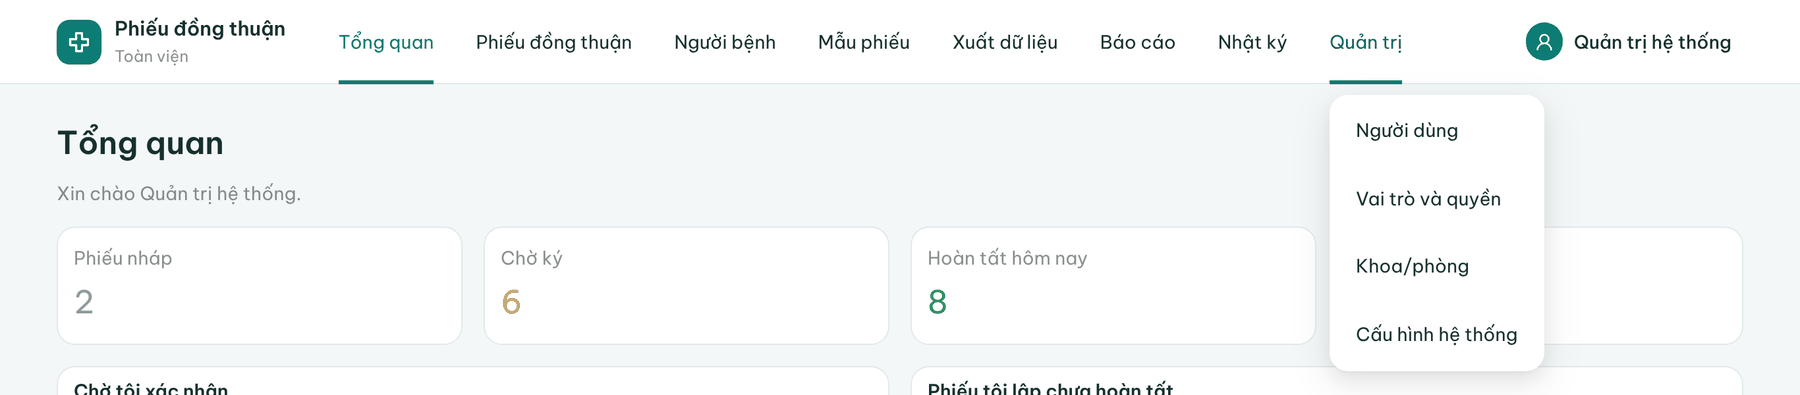
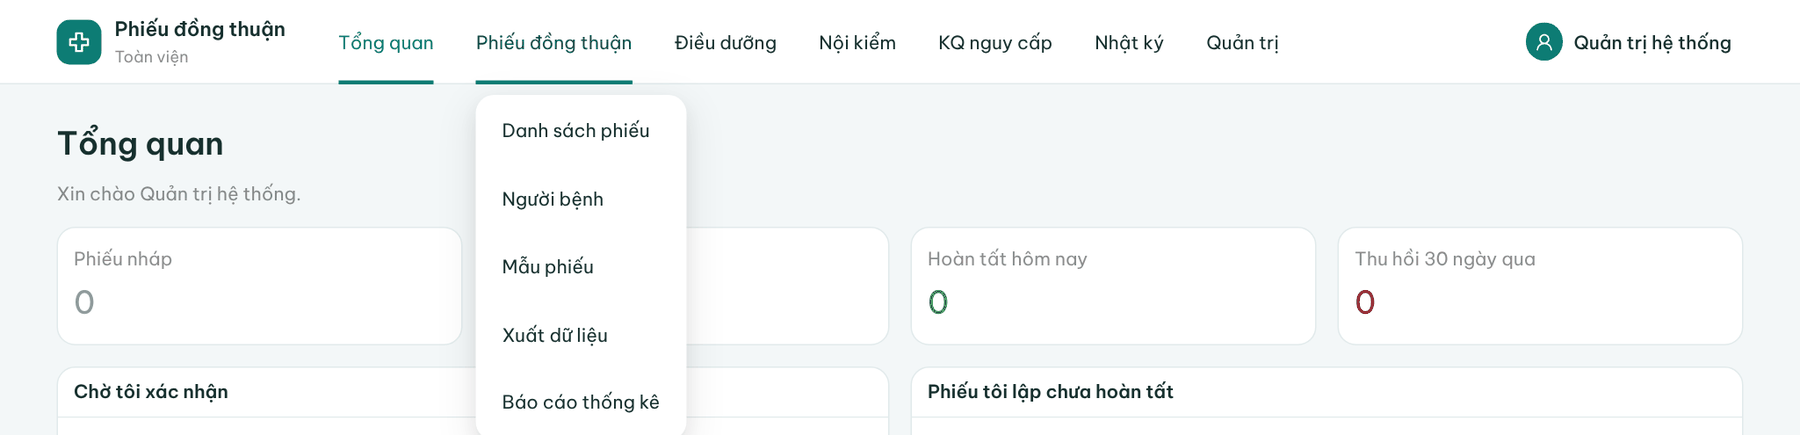
Tài liệu menu Phiếu đồng thuận (quyết định 62), cách mở màn hình theo dõi KQNC
- Hướng dẫn sử dụng: mục 1.3 mô tả menu mới, bảng mục menu theo vai trò, các bước
  "Phiếu đồng thuận → …"; chụp lại ảnh menu ngang, menu điện thoại, menu Điều dưỡng
  (máy thử, dữ liệu giả lập). Mục 12.7: hai cách mở màn hình theo dõi tại khoa.
- Triển khai 5.15: chỉ đổi giao diện, không migration, không cấu hình.
- Kế hoạch: quyết định 62 và giả định.

Claude-Session: https://claude.ai/code/session_01HqEeJxKsVGMM8DuiZkvcED

diff --git a/docs/KE_HOACH_TRIEN_KHAI.md b/docs/KE_HOACH_TRIEN_KHAI.md
@@ -651,6 +651,7 @@ Toàn bộ dữ liệu test được sinh giả lập (tên, số CCCD ngẫu nh
 | 59 | Dashboard giám sát nội kiểm đường huyết (27/11/2026) | Bệnh viện yêu cầu **"bổ sung dashboard quản lý giám sát nội kiểm"** và chọn cả bốn đề xuất. Menu **Nội kiểm → Dashboard**, mỗi lần xem một **tháng** (mặc định tháng này, xem được 24 tháng gần đây). **Người xem:** Khoa HSH (`qc.review`) thấy mọi khoa; khoa (`qc.record`) thấy khoa của mình; quyền mới **`qc.monitor`** *Xem dashboard nội kiểm đường huyết mọi khoa (chỉ xem)* để quản trị gán cho lãnh đạo, Phòng Điều dưỡng, QLCL. Quyền này không cho ghi, xem xét hay mở sổ, và chỉ Quản trị hệ thống tự có; CSDL đang chạy gán tay cho vai trò cần xem. **Tỷ lệ thực hiện tính trên mọi ngày trong tháng** như sổ giấy (kể cả thứ bảy, chủ nhật): mỗi máy mỗi ngày một lần; ngày đã qua không có kết quả là chưa thực hiện. **Nội dung:** tám ô chỉ số (tỷ lệ thực hiện, ngày chưa ghi, ghi muộn, không đạt kèm chạy lại đạt và vẫn không đạt, không đạt chưa chạy lại cần nhắc, chờ Khoa HSH xem xét, sổ đã xác nhận kèm số sổ chờ xác nhận, bị trả lại, đang ghi, máy chưa mở sổ, số máy); khung **Cần xử lý** tính đến hôm nay (lô đang dùng đã hết hạn hoặc còn ≤ 30 ngày kèm khoa đang dùng; chưa đủ hai mức dung dịch chứng hoặc hết que thử còn hạn; máy chưa mở sổ tháng này; sổ của 5 tháng trước chưa xác nhận); hai biểu đồ **6 tháng** (tỷ lệ thực hiện, tỷ lệ không đạt, mỗi biểu đồ một trục, có bảng số); bảng **theo khoa**, mở ra từng máy (ngày chưa ghi, lần không đạt gần nhất kèm nguyên nhân, trạng thái sổ, **Xem sổ** khi người xem mở được sổ). API `GET /api/v1/qc/dashboard?month=`. Chỉ đọc, không có migration. Ô chỉ số và thẻ biểu đồ dùng chung với Dashboard điều dưỡng. **Giả định:** hôm nay chỉ tính khi khoa đã ghi kết quả (khoa còn chạy trong ngày); máy khai báo giữa tháng tính từ ngày khai báo (ghi bù trước đó thì từ kết quả đầu tiên); phần mềm không lưu ngày ngưng hay chuyển máy, nên sổ của khoa cũ tính đến kết quả cuối, khoa nhận máy tính từ ngày sau đó; máy đang dùng chưa mở sổ tính mọi ngày là chưa ghi; ghi muộn theo nhãn **Ghi muộn** của sổ; không đạt tính ở lần chạy đầu; cảnh báo lô ai cũng thấy (lô dùng chung) nhưng chỉ ghi khoa đang dùng trong phạm vi người xem |
 | 60 | Kết quả nguy cấp (27/11/2026) | Bệnh viện gửi quy trình thông báo kết quả nguy cấp, sổ ST01 (khoa cận lâm sàng), ST02 (khoa điều trị), sổ thông báo qua điện thoại của Khoa Vi sinh và đề cương sáng kiến; yêu cầu **thêm tính năng quản lý kết quả nguy cấp**. Bệnh viện chọn (theo đề xuất): **vẫn gọi điện, phần mềm thay sổ** (khoa cận lâm sàng gọi điện như quy trình rồi ghi một lần; sổ ST01/sổ Vi sinh của khoa báo và sổ ST02 của khoa nhận cùng lấy từ hồ sơ, in PDF A4 ngang đúng cột sổ giấy); **bác sĩ tự xác nhận** (bác sĩ ghi hướng xử trí ban đầu bằng tài khoản của mình, thay chữ ký cột 9 sổ ST02; người nghe máy bấm **Đã nhận cuộc gọi** bằng tài khoản của mình); **danh mục do QLCL quản lý, khoa tự xác định** (phần mềm hiện khoảng nguy cấp theo danh mục, không tự đánh giá giá trị); **sổ PDF theo 3 mẫu, cảnh báo tại khoa điều trị, dashboard cho QLCL, hủy hồ sơ báo nhầm**. Bệnh viện yêu cầu thêm: **thời gian cảnh báo và các thông số tương tự là tham số cấu hình** để điều chỉnh khi vận hành (QLCL sửa ở *Danh mục và cấu hình*: hai thời hạn 10/10 phút, ngưỡng ghi bù 30 phút, báo sắp quá hạn 3 phút, chu kỳ cập nhật 15 giây, chuông và nhắc lại 60 giây, chớp tắt và nhịp 1200 ms (≥ 1000 ms, tắt khi máy đặt giảm chuyển động), giữ hồ sơ hoàn tất 24 giờ, tên đầy đủ trên màn hình theo dõi, bắt buộc địa chỉ, 4 mục tiêu dashboard, 3 mã số sổ; mỗi lần lưu ghi nhật ký giá trị cũ và mới; hồ sơ giữ thời hạn lúc ghi); **màn hình chạy realtime ở khoa điều trị** (trang `/man-hinh-kqnc` cho TV, tài khoản vai trò **Màn hình theo dõi KQNC** chỉ xem, tên viết tắt, tự cập nhật, báo mất kết nối); **cảnh báo bằng âm thanh và tín hiệu chớp tắt** (dải đỏ chớp tắt trên mọi trang của khoa nhận và trên màn hình theo dõi, chuông khi có hồ sơ mới và nhắc lại đến khi khoa xác nhận, tắt tiếng được trên từng máy). Luồng: chờ gọi báo → chờ khoa xác nhận → chờ bác sĩ xử trí → hoàn tất; khoa nhận trả lại được (không phải khoa tôi) để khoa báo báo lại đúng khoa; người nhận phải đọc lại chính xác mới lưu được lần báo (số lần đọc sai vẫn lưu); sổ Vi sinh bắt buộc SID và nhắc lại 2 lần; hủy hồ sơ báo nhầm bắt buộc lý do và (khi đã báo) xác nhận đã gọi khoa nhận, hồ sơ không bị xóa (sổ gạch ngang, dashboard đếm riêng). Đồng hồ đếm ngược theo giờ máy chủ. Quyền mới `critical.record`, `critical.receive`, `critical.treat`, `critical.display`, `critical.monitor`, `critical.manage`; vai trò mới **Khoa cận lâm sàng (KQNC)**, **QLCL (kết quả nguy cấp)**, **Màn hình theo dõi KQNC** tự tạo; Điều dưỡng có `critical.receive`, Bác sĩ có `critical.receive`, `critical.treat` khi cài mới (CSDL đang chạy quản trị thêm tay). Migration `AddCriticalResults` (3 bảng, 1 sequence). **Giả định:** danh mục khi cài mới trống (QLCL nhập theo phụ lục của quy trình; máy thử có vài mục ví dụ giả lập); tra HIS theo mã người bệnh qua API thông tin người bệnh khi đã cấu hình, HIS lỗi thì nhập tay (nhãn Nhập tay); bác sĩ ghi hướng xử trí khi người nghe máy chưa bấm thì tính là khoa nhận lúc bác sĩ lưu; mỗi hồ sơ chỉ có một lần báo còn hiệu lực; ghi được kết quả trong 31 ngày gần đây; màn hình theo dõi dùng thăm dò định kỳ (không cần mở thêm cổng hay WebSocket qua IIS); máy TV đặt cờ cho tự phát âm thanh để chuông bật sau khi khởi động lại; không có xuất Excel (sổ in PDF theo mẫu, dashboard có bảng số); script xóa dữ liệu chạy thử không xóa dữ liệu kết quả nguy cấp |
 | 61 | Logo hệ thống làm logo phần mềm trên web (27/11/2026) | Bệnh viện yêu cầu **"Lấy logo hệ thống làm Logo của phần mềm trên web luôn"**. Logo bệnh viện tải lên ở *Quản trị → Cấu hình hệ thống* (đang in trên PDF) nay hiện ở **thanh trên cùng**, **trang đăng nhập** và làm **biểu tượng thẻ trình duyệt** (favicon); chưa có logo thì dùng dấu nhận diện và biểu tượng mặc định. API mới không cần đăng nhập `GET /api/v1/branding/logo` (thông tin ảnh, `no-cache`) và `GET /api/v1/branding/logo/image?v=<lần sửa>` (ảnh, lưu đệm một ngày) vì trang đăng nhập phải hiện logo; chỉ trả ảnh do quản trị tải lên, không có dữ liệu cá nhân. Không có migration. **Giả định:** giữ tên phần mềm "Phiếu đồng thuận" bên cạnh logo; máy đang mở thấy logo mới khi tải lại trang |
+| 62 | Các chức năng phiếu đồng thuận chung một menu (28/11/2026) | Bệnh viện yêu cầu **"gom các tính năng Phiếu đồng thuận vào chung 1 menu"**. Thanh menu có menu **Phiếu đồng thuận** gồm **Danh sách phiếu**, **Người bệnh**, **Mẫu phiếu**, **Xuất dữ liệu**, **Báo cáo thống kê**, giống các phân hệ Điều dưỡng, Nội kiểm, KQ nguy cấp; thanh menu máy tính còn 7 mục thay vì 11. Đường dẫn và quyền từng trang giữ nguyên (liên kết đã lưu vẫn mở được); menu chỉ hiện mục con được phép, không còn mục con nào thì ẩn cả menu. Mục đang chọn tính theo ranh giới đường dẫn (`/bao-cao` không nhận nhầm đường dẫn khác bắt đầu bằng `/bao-cao`). Kèm sửa nhỏ: nút **Mở màn hình theo dõi (TV)** chỉ hiện với tài khoản mở được màn hình (khoa điều trị, tài khoản màn hình); QLCL chỉ giám sát không còn thấy nút dẫn tới trang không có quyền. Không có migration, không cần cấu hình. **Giả định:** **Tổng quan** (trang chủ; bấm tên phần mềm cũng về đây) giữ ở ngoài; **Nhật ký hệ thống** ghi thao tác của mọi phân hệ nên đứng riêng, chuyển sang cạnh **Quản trị**; mục danh sách đổi tên **Danh sách phiếu** cho khác tên menu; tên phần mềm vẫn là "Phiếu đồng thuận" (chưa đổi tên miền) |
 
 **Giả định đang áp dụng**
 - Giai đoạn 1 dùng **tài khoản nội bộ** của ứng dụng, chưa tích hợp AD/SSO.

diff --git a/docs/trien-khai.md b/docs/trien-khai.md
@@ -714,6 +714,12 @@ Lưu ý:
 - Script xóa dữ liệu chạy thử (mục 5.11) **không xóa** dữ liệu kết quả nguy cấp: chạy thử trên môi trường UAT (mục 5.10).
 - Không có xuất Excel cho sổ và dashboard kết quả nguy cấp: sổ in PDF theo mẫu giấy; dashboard có bảng số liệu (**Xem bảng**).
 
+### 5.15. Menu Phiếu đồng thuận (quyết định 62)
+
+Các mục **Danh sách phiếu**, **Người bệnh**, **Mẫu phiếu**, **Xuất dữ liệu**, **Báo cáo thống kê** nằm chung menu **Phiếu đồng thuận**; **Nhật ký** chuyển sang cạnh **Quản trị** (hướng dẫn sử dụng, mục 1.3). Bản này chỉ đổi giao diện: không có migration, không đổi quyền, không cần cấu hình. Đường dẫn các trang giữ nguyên nên lối tắt, dấu trang đã lưu vẫn dùng được. Sau khi cài, báo người dùng bấm **Ctrl + F5** một lần để tải giao diện mới.
+
+Bản này cũng ẩn nút **Mở màn hình theo dõi (TV)** với tài khoản chỉ có vai trò **QLCL (kết quả nguy cấp)**: màn hình theo dõi là của khoa nhận, tài khoản QLCL bấm vào trước đây gặp trang không có quyền.
+
 ## 6. Hình thức B — Docker + SQL Server có sẵn
 
 1. Trên máy chủ Docker, sao chép repo (hoặc chỉ thư mục `backend`, `frontend`, `deploy`).
